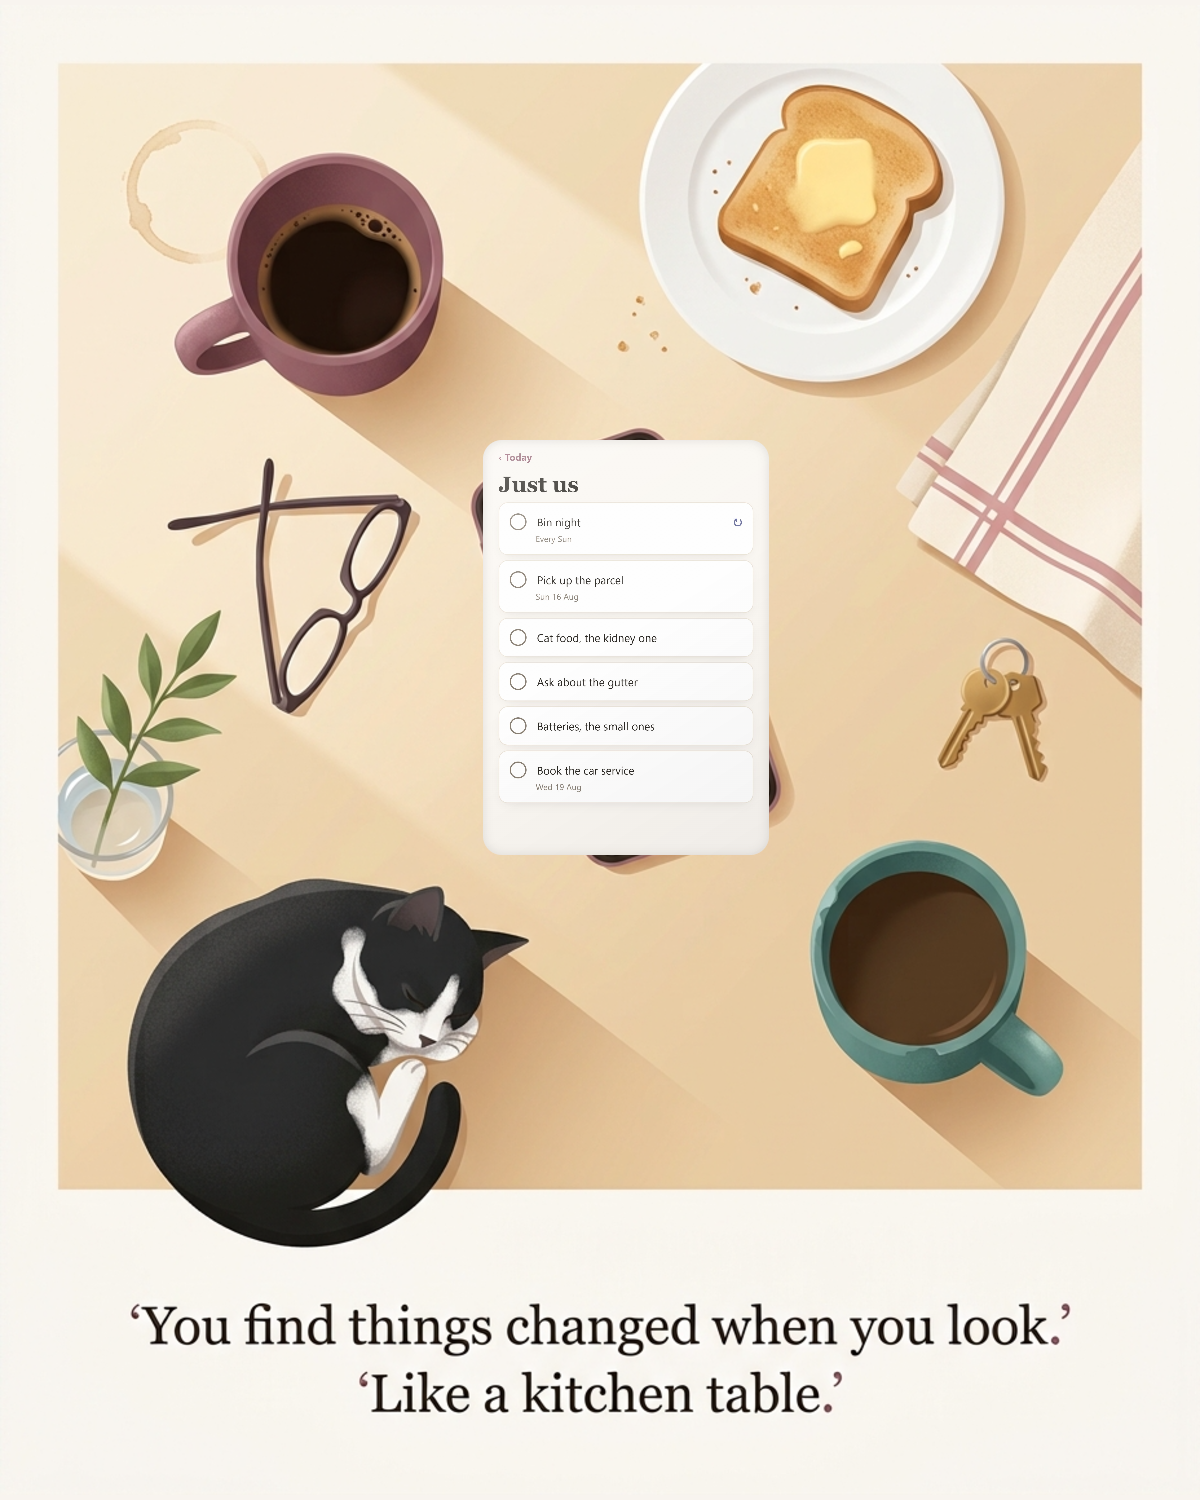
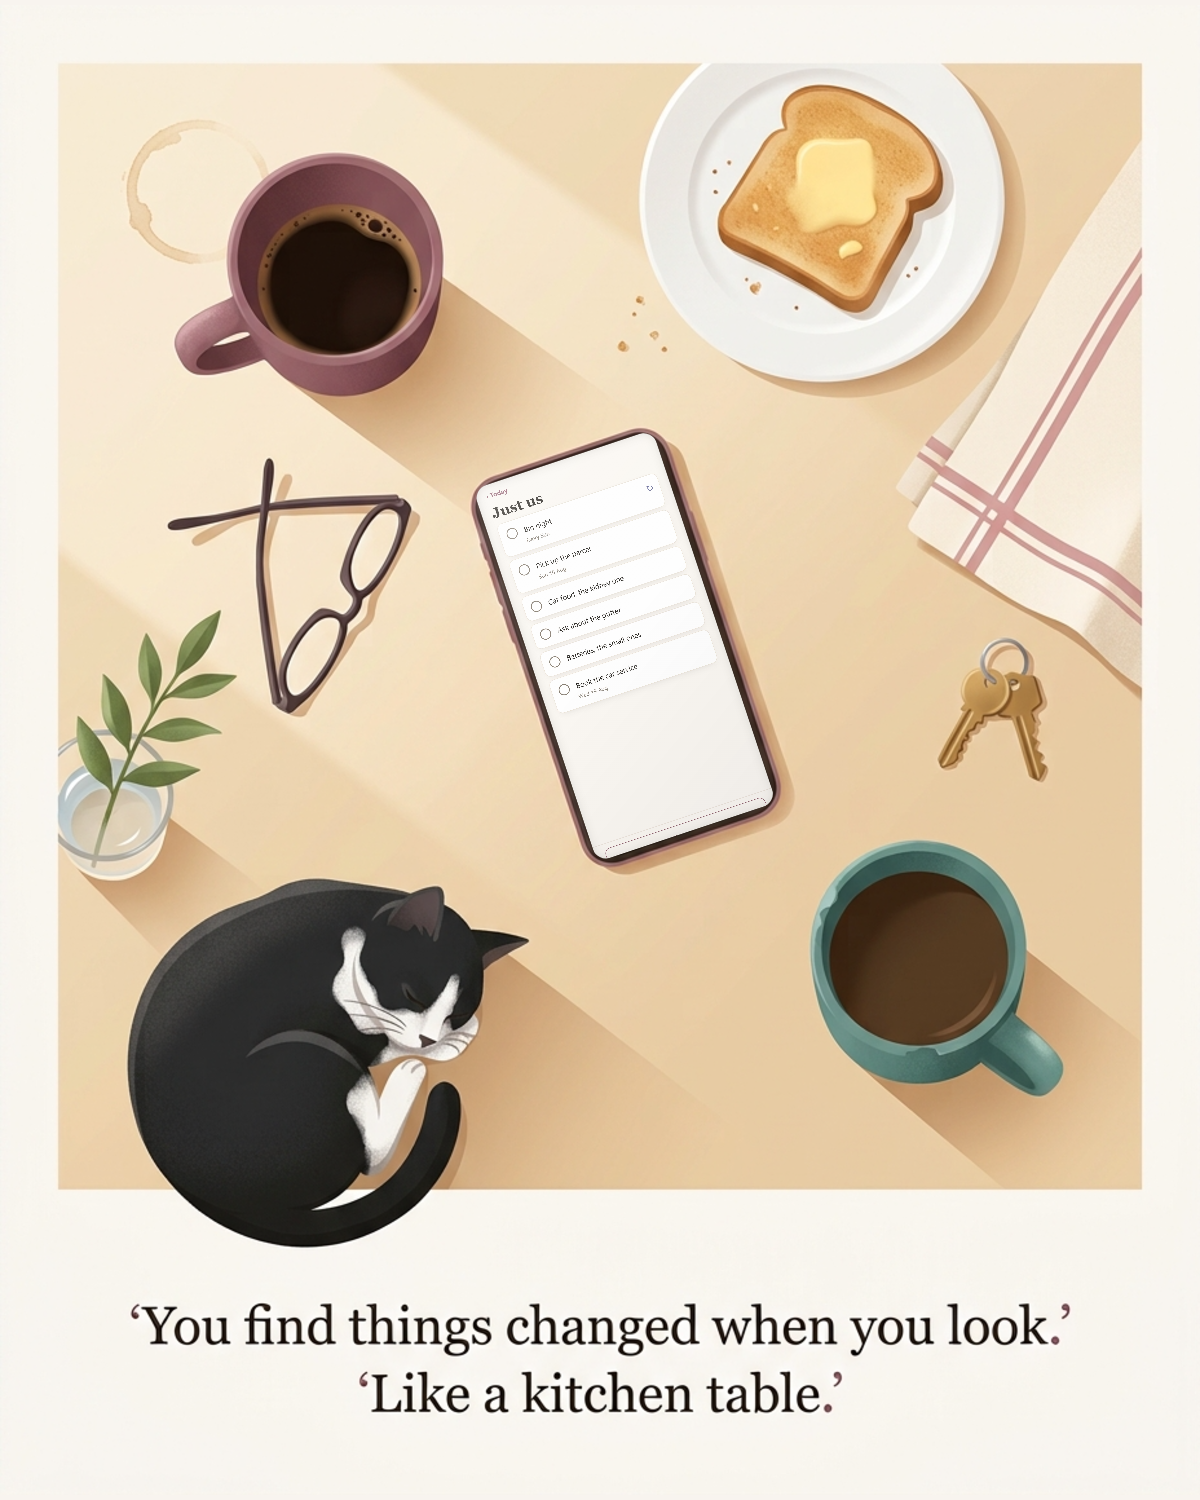
feat(launch): 4:5 Instagram slides, because raw screenshots cannot fit there
A phone screenshot is ~0.46 wide-to-tall. Instagram's tallest feed slot is 4:5,
or 0.8, and its square is 1.0. A raw screenshot therefore either letterboxes
into a stamp with dead margins or centre-crops away the top and bottom. There is
no third outcome; the ratios do not meet.

So the phone bleeds off the bottom edge instead: 78% of slide width, starting
below the caption, running past the frame. The slide fills, the phone still
reads as a phone, and the top of the screen is shown large rather than shrunk.

The bleed needed a dissolve. A hard crop slices whatever row lands at the edge,
and half a line of text reads as a mistake rather than as bleed. The last 16%
now fades into THE APP'S OWN paper colour, which is why each slide carries a
`paper` value and today-dark carries a different one. Fading to a fixed light
colour would have painted a white bar across the night-mode slide.

Captions do the talking. At feed scale a 1080px slide renders about 400px wide
on a phone, so nothing phone-sized in it is readable and chasing that is wasted.

Sources are the App Store JPEGs (1320x2868, current), so this needs no dev
server and no Expo boot.

Six slides in docs/launch/ours/instagram/, carousel order leading with Ours
because slide one is the only one most people see.

Changed region(s): [[0.4008, 0.276, 0.555, 0.5827], [0.5242, 0.276, 0.6475, 0.5827]]

diff --git a/decision-log.md b/decision-log.md
@@ -7181,3 +7181,34 @@ IOS=1 SHOT_SCALE=2 IOS_W=1024 IOS_H=1366 node scripts/screenshots.mjs  # iPad 13
 
 Every size was verified by reading the JPEG SOF header, never by trusting a filename, because the
 whole failure mode here is a file that is named right and sized wrong.
+
+## Social slides: stop posting raw screenshots
+
+*2026-08-17. Instagram, and a shape problem.*
+
+A phone screenshot is roughly 0.46 wide-to-tall. Instagram's TALLEST feed slot is 4:5, which is 0.8,
+and its square is 1.0. So a raw screenshot has only two possible fates there, and both are bad: it
+letterboxes into a stamp surrounded by dead margin, or it centre-crops and throws away the top and
+bottom of the screen. There is no third option, because the aspect ratios simply do not meet.
+
+**Decided: the phone BLEEDS off the bottom of the slide.** `scripts/social-slides.mjs` puts it at
+78% of the slide width, starting below the caption and running past the frame edge. The slide fills,
+the phone still reads as a phone, and the top of the screen (the part that carries the idea) is
+shown large instead of shrunk to fit.
+
+**Decided: the caption carries the message, not the screenshot.** At feed scale, viewed on a phone,
+a 1080px slide renders around 400px wide. Nothing phone-sized inside it is readable and chasing that
+is wasted effort. The caption is set at 6.2% of the slide width in Newsreader and does the talking.
+
+**The bleed needed a dissolve.** A hard crop at the frame edge slices whatever row happens to land
+there, and a half-cut line of text reads as a mistake rather than as deliberate bleed. The last 16%
+of the screen now fades into **the app's own paper colour**, which is why each slide carries a
+`paper` value and the dark slide carries a different one. Fading to a fixed light colour would have
+put a white bar across the bottom of the night-mode slide.
+
+**Sources are the App Store JPEGs, not a fresh harness run.** They are 1320x2868 and current, so the
+slides need no dev server and no Expo boot. That is the difference between this being a 20-second
+job and a five-minute one.
+
+Six slides, 1080x1350, in `docs/launch/ours/instagram/`. Carousel order leads with Ours, because
+slide one is the only one most people see.
